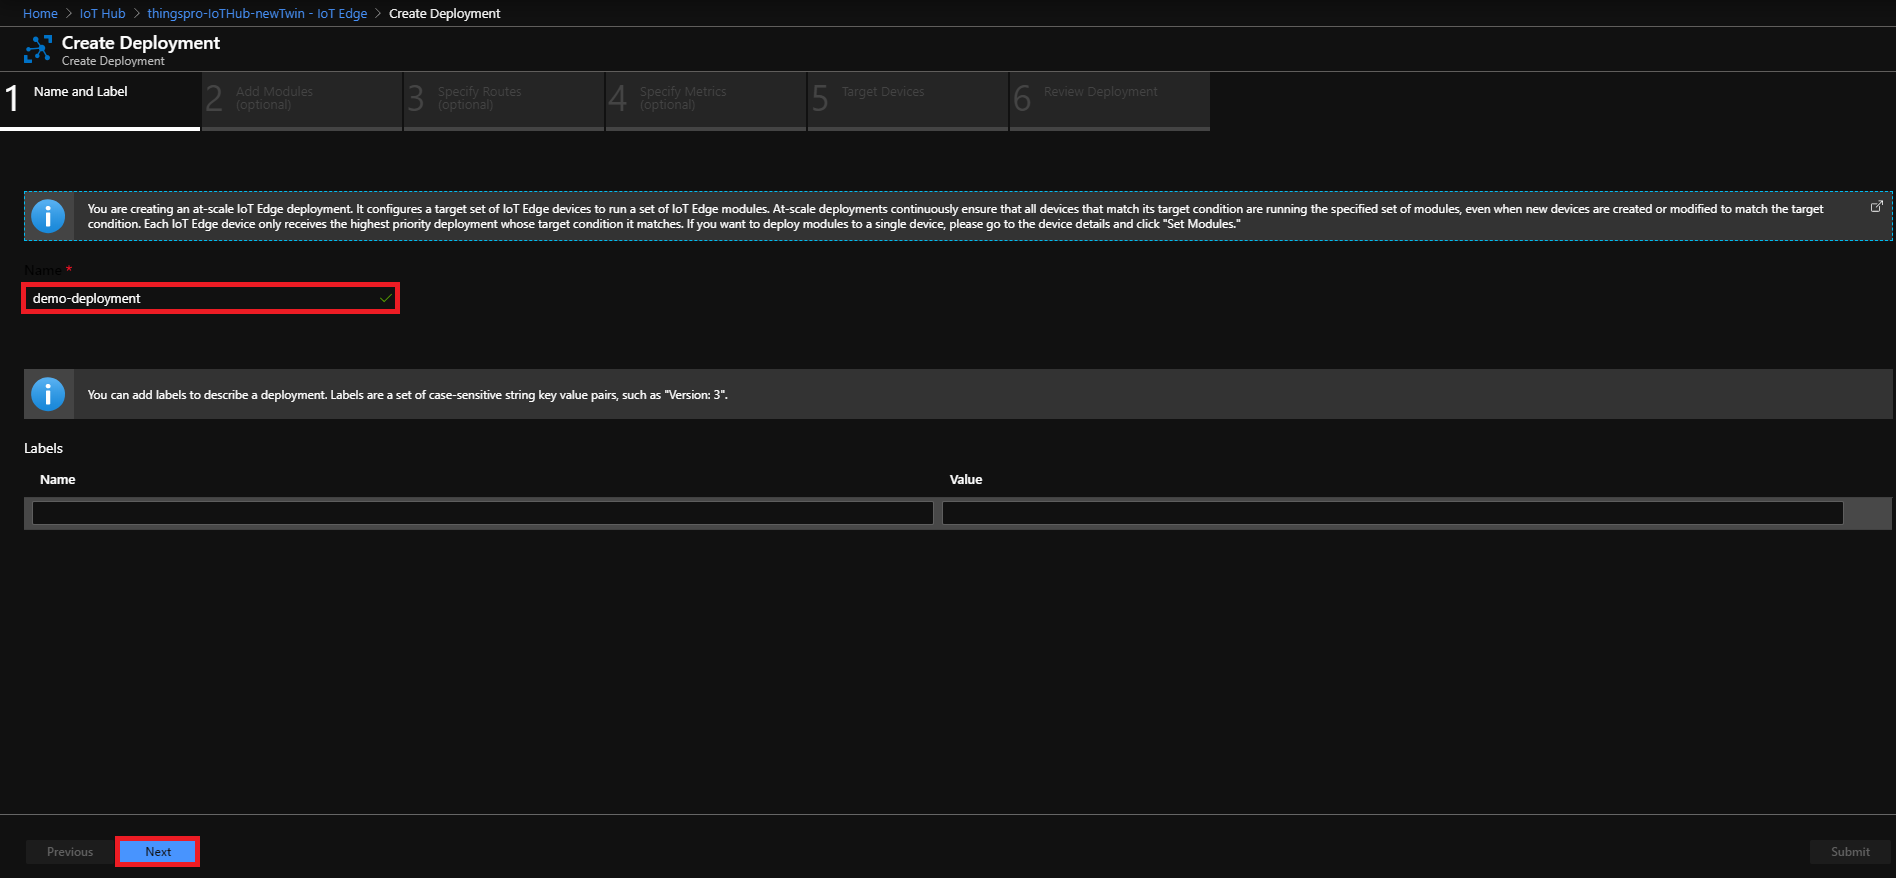
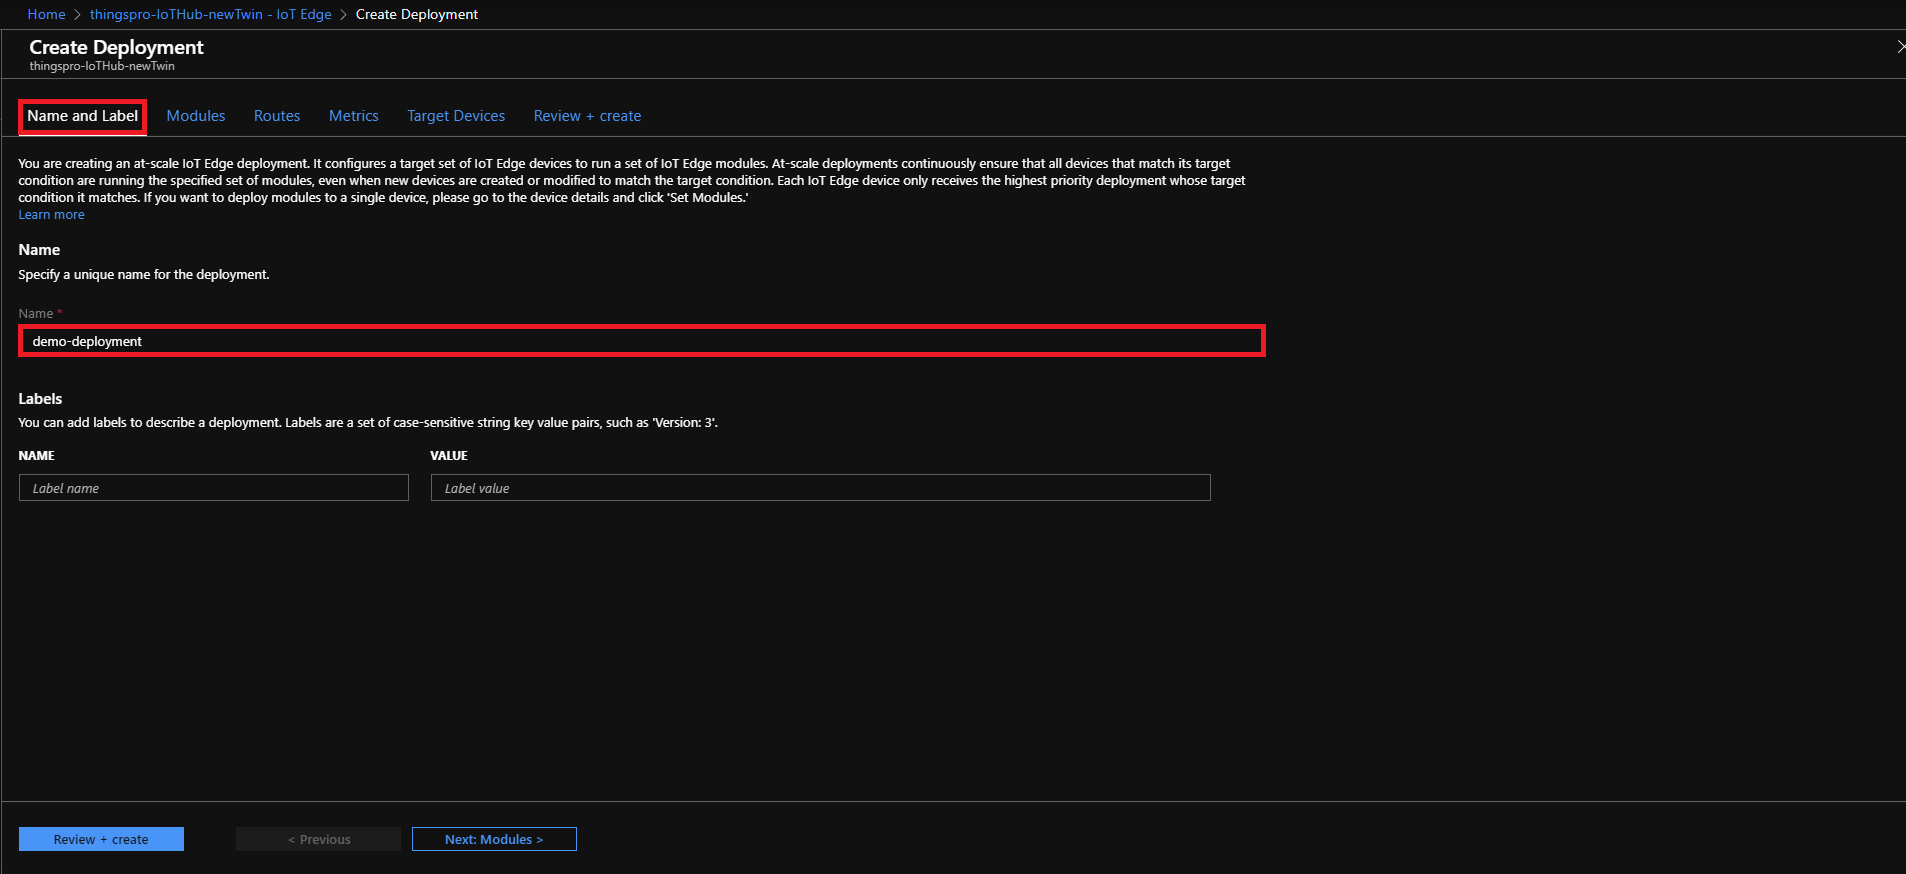
feat: Sync to released build 898

diff --git a/ModbusToCloudFromScratch.md b/ModbusToCloudFromScratch.md
@@ -1,14 +1,14 @@
 # Install ThingsPro Edge v1.1.0
 ## Set to Default
 
-Remove docker folder
-```sh
-rm -rf /overlayfs/docker /overlayfs/working/docker
-```
-
 Reset to default
 ```sh
 mx-set-def
+```
+
+Remove docker folder
+```sh
+rm -rf /overlayfs/docker /overlayfs/working/docker
 ```
 
 > Note: This will wipe out all the data on the device!
@@ -21,8 +21,8 @@ dhclient eth0
 
 ## Download and Install ThingsPro
 ```sh
-wget https://moxaics.s3-ap-northeast-1.amazonaws.com/v3/edge/builds/edge-core-update/release/iotedge/v1.1.0/400/update_1.1.0-400-uc-8112a-me_armhf.deb && \
-dpkg -i ./update_1.1.0-400-uc-8112a-me_armhf.deb
+wget https://moxaqastorage.blob.core.windows.net/store/update_1.1.0-898-uc-8112a-me_armhf.deb && \
+dpkg -i ./update_1.1.0-898-uc-8112a-me_armhf.deb
 ```
 
 ## Track Installation Progress
@@ -72,41 +72,49 @@ appman service set sshserver enable=true
 
 # Setup IoT Edge
 ## Prepare IoT Edge Deployment
-![](./Image/Image1.png)
+- Create Deployment
+        ![](./Image/Image1.png)
+- Name and Label
 ![](./Image/Image2.png)
-![](./Image/Image3.png)
-- Image URI:
-    ```
-    moxa2019/thingspro-agent:1.1.0-219-armhf
-    ```
-- Container Create Options:
-    ```
-    {
-      "HostConfig": {
-        "Binds": [
-          "/var/thingspro/iotedge/:/var/thingspro/cloud/setting/",
-          "/var/thingspro/apps/device/moxaenv:/var/thingspro/cloud/setting/moxaenv",
-          "/var/run/:/host/var/run/",
-          "/var/thingspro/data/:/var/thingspro/data/"
-        ],
-        "LogConfig": {
-          "Type": "json-file",
-          "Config": {
-            "max-size": "10m",
-            "max-file": "10"
-          }
+- Modules
+    ![](./Image/Image3.png)
+    ![](./Image/Image3-1.png)
+    - Image URI:
+        ```
+        moxa2019/thingspro-agent:1.1.0-226-armhf
+        ```
+    ![](./Image/Image3-2.png)
+    - Container Create Options:
+        ```
+        {
+            "HostConfig": {
+                "Binds": [
+                    "/var/thingspro/iotedge/:/var/thingspro/cloud/setting/",
+                    "/var/thingspro/apps/device/moxaenv:/var/thingspro/cloud/setting/moxaenv",
+                    "/var/run/:/host/var/run/",
+                    "/var/thingspro/data/:/var/thingspro/data/"
+                ]
+            }
         }
-      }
-    }
-    ```
-![](./Image/Image4.png)
-![](./Image/Image5.png)
-![](./Image/Image6.png)
-- Target Condition:
-    ```
-    tags.project='demo'
-    ```
-![](./Image/Image7.png)
+        ```
+- Routes
+    ![](./Image/Image4.png)
+    - NAME:
+        ```
+        route
+        ```
+    - VALUE:
+        ```
+        FROM /messages/* INTO $upstream
+        ```
+- Target Devices
+    ![](./Image/Image5.png)
+    - Target Condition:
+        ```
+        tags.project='demo'
+        ```
+- Review + create
+    ![](./Image/Image6.png)
 
 ## Provision to IoT Edge
 ### Provision Tool
@@ -140,7 +148,7 @@ appman service set sshserver enable=true
 ```sh
 curl https://127.0.0.1:8443/api/v1/tags/fieldbus/modbus-tcp/templates \
     -X GET -H "Content-Type:application/json" \
-    -H "mx-api-token:$(cat /var/thingspro/data/mx-api-token)" -k
+    -H "mx-api-token:$(cat /var/thingspro/data/mx-api-token)" -k | json_pp
 ```
 
 #### Create
@@ -148,14 +156,14 @@ curl https://127.0.0.1:8443/api/v1/tags/fieldbus/modbus-tcp/templates \
 curl https://127.0.0.1:8443/api/v1/tags/fieldbus/modbus-tcp/templates \
     -X POST -H "Content-Type:application/json" \
     -H "mx-api-token:$(cat /var/thingspro/data/mx-api-token)" -k \
-    -d '{"tagList":[{"address":0,"function":"read-coils","id":"ClearFlag","op":"read","pollingPeriodMs":10000,"quantity":1,"requestTimeoutMs":5000,"type":"boolean","unit":""},{"address":0,"function":"read-discrete-inputs","id":"EventFlag","op":"read","pollingPeriodMs":10000,"quantity":1,"requestTimeoutMs":5000,"type":"boolean","unit":""},{"address":0,"function":"read-holding-registers","id":"AI-mode","op":"read","pollingPeriodMs":10000,"quantity":2,"requestTimeoutMs":5000,"type":"float32","unit":""},{"address":0,"function":"read-input-registers","id":"DI-0","op":"read","pollingPeriodMs":10000,"quantity":4,"requestTimeoutMs":5000,"type":"float64","unit":""}],"templateName":"myNewTemplate"}'
+    -d '{"tagList":[{"address":4153,"function":"read-coils","id":"AI_0_resetMaxValue","op":"read","pollingPeriodMs":10000,"quantity":1,"requestTimeoutMs":5000,"type":"boolean","unit":"","byteOrder":"","slope":1,"offset":0},{"address":1000,"function":"read-discrete-inputs","id":"DI_0_counterOverflowFlag","op":"read","pollingPeriodMs":10000,"quantity":1,"requestTimeoutMs":5000,"type":"boolean","unit":"","byteOrder":"","slope":1,"offset":0},{"address":544,"function":"read-holding-registers","id":"AI_0_mode","op":"read","pollingPeriodMs":10000,"quantity":1,"requestTimeoutMs":5000,"type":"float32","unit":"","byteOrder":"","slope":1,"offset":0},{"address":520,"function":"read-input-registers","id":"AI_0_scaledValue","op":"read","pollingPeriodMs":10000,"quantity":2,"requestTimeoutMs":5000,"type":"float32","unit":"mA","byteOrder":"swapWord","slope":1,"offset":0}],"templateName":"ioLogik-E1242"}' | json_pp
 ```
 
 #### Remove
 ```sh
-curl https://127.0.0.1:8443/api/v1/tags/fieldbus/modbus-tcp/templates?name=myNewTemplate \
+curl https://127.0.0.1:8443/api/v1/tags/fieldbus/modbus-tcp/templates?name=ioLogik-E1242 \
     -X DELETE -H "Content-Type:application/json" \
-    -H "mx-api-token:$(cat /var/thingspro/data/mx-api-token)" -k
+    -H "mx-api-token:$(cat /var/thingspro/data/mx-api-token)" -k | json_pp
 ```
 
 ### Device
@@ -163,7 +171,7 @@ curl https://127.0.0.1:8443/api/v1/tags/fieldbus/modbus-tcp/templates?name=myNew
 ```sh
 curl https://127.0.0.1:8443/api/v1/tags/fieldbus/modbus-tcp/devices \
     -X GET -H "Content-Type:application/json" \
-    -H "mx-api-token:$(cat /var/thingspro/data/mx-api-token)" -k
+    -H "mx-api-token:$(cat /var/thingspro/data/mx-api-token)" -k | json_pp
 ```
 
 #### Create
@@ -171,21 +179,21 @@ curl https://127.0.0.1:8443/api/v1/tags/fieldbus/modbus-tcp/devices \
 curl https://127.0.0.1:8443/api/v1/tags/fieldbus/modbus-tcp/devices \
     -X POST -H "Content-Type:application/json" \
     -H "mx-api-token:$(cat /var/thingspro/data/mx-api-token)" -k \
-    -d '{"name":"myModbusSlave","templateName":"myNewTemplate","interface":"eth0","slaveId":1,"slaveIpAddress":"10.144.48.147","port":502}'
+    -d '{"name":"E1242","templateName":"ioLogik-E1242","interface":"eth0","slaveId":1,"slaveIpAddress":"10.144.48.150","port":502}' | json_pp
 ```
 
 #### Remove
 ```sh
 curl https://127.0.0.1:8443/api/v1/tags/fieldbus/modbus-tcp/devices?id={ID} \
     -X DELETE -H "Content-Type:application/json" \
-    -H "mx-api-token:$(cat /var/thingspro/data/mx-api-token)" -k
+    -H "mx-api-token:$(cat /var/thingspro/data/mx-api-token)" -k | json_pp
 ```
 
 ### Restart Modbusmaster-tcp Application
 ```sh
 curl https://127.0.0.1:8443/api/v1/apps/modbusmaster-tcp/restart \
     -X PUT -H "Content-Type:application/json" \
-    -H "mx-api-token:$(cat /var/thingspro/data/mx-api-token)" -k
+    -H "mx-api-token:$(cat /var/thingspro/data/mx-api-token)" -k | json_pp
 ```
 
 ### Check Current Tag Data
@@ -204,14 +212,14 @@ curl https://127.0.0.1:8443/api/v1/apps/modbusmaster-tcp/restart \
 ```sh
 curl https://127.0.0.1:8443/api/v1/tags/all \
     -X GET -H "Content-Type:application/json" \
-    -H "mx-api-token:$(cat /var/thingspro/data/mx-api-token)" -k
+    -H "mx-api-token:$(cat /var/thingspro/data/mx-api-token)" -k | json_pp
 ```
 
 ### Get Message Policy
 ```sh
 curl https://127.0.0.1:8443/api/v1/azure-iotedge/messages \
     -X GET -H "Content-Type:application/json" \
-    -H "mx-api-token:$(cat /var/thingspro/data/mx-api-token)" -k
+    -H "mx-api-token:$(cat /var/thingspro/data/mx-api-token)" -k | json_pp
 ```
 
 ### Set Message Policy
@@ -224,15 +232,15 @@ curl https://127.0.0.1:8443/api/v1/azure-iotedge/messages \
                 "enable": true,
                 "outputTopic": "SystemTag",
                 "properties": [
-            {
+                    {
                         "key": "Data Source",
                         "value": "IIoT Gateway"
                     },
-            {
+                    {
                         "key": "Payload Schema",
                         "value": "Moxa Default"
                     }
-            ],
+                ],
                 "tags": [
                     {
                         "srcName": "system",
@@ -246,7 +254,8 @@ curl https://127.0.0.1:8443/api/v1/azure-iotedge/messages \
                 "sendOutThreshold": {
                     "size": 4096,
                     "time": 10
-                }
+                },
+                "format": ""
             },
             {
                 "enable": true,
@@ -254,20 +263,21 @@ curl https://127.0.0.1:8443/api/v1/azure-iotedge/messages \
                 "properties": [],
                 "tags": [
                     {
-                        "srcName": "myModbusSlave",
+                        "srcName": "E1242",
                         "tagNames": [
-                            "ClearFlag",
-                            "EventFlag",
-                            "AI-mode",
-                            "DI-0"
+                            "AI_0_resetMaxValue",
+                            "DI_0_counterOverflowFlag",
+                            "AI_0_mode",
+                            "AI_0_scaledValue"
                         ]
                     }
                 ],
-                "pollingInterval": 5,
+                "pollingInterval": 20,
                 "sendOutThreshold": {
                     "size": 4096,
-                    "time": 0
-                }
+                    "time": 60
+                },
+                "format": "{iodb:[{(.tagName):(.dataValue),\"Time_\\(.tagName)\":(.ts/1000|todateiso8601)}],deviceId:(.srcName),time:(now|todateiso8601)}"
             }
         ]
     }
@@ -277,5 +287,5 @@ curl https://127.0.0.1:8443/api/v1/azure-iotedge/messages \
 ```sh
 curl https://127.0.0.1:8443/api/v1/azure-iotedge/messages/1 \
     -X DELETE -H "Content-Type:application/json" \
-    -H "mx-api-token:$(cat /var/thingspro/data/mx-api-token)" -k
+    -H "mx-api-token:$(cat /var/thingspro/data/mx-api-token)" -k | json_pp
 ```
